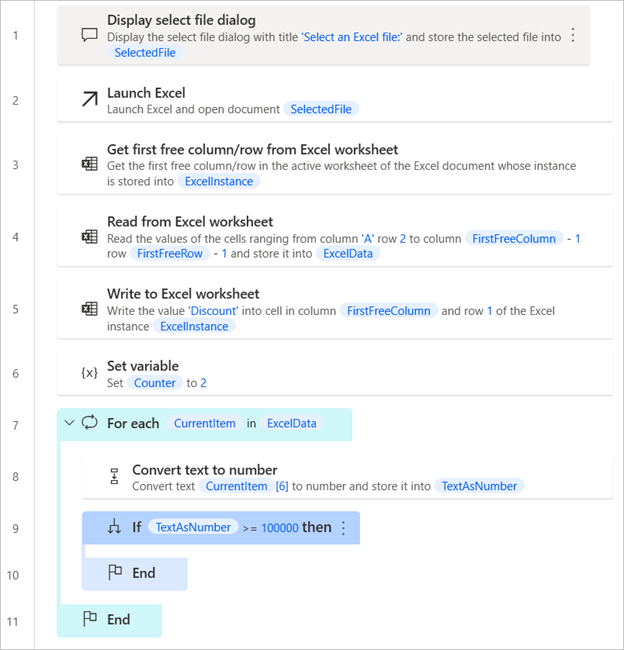
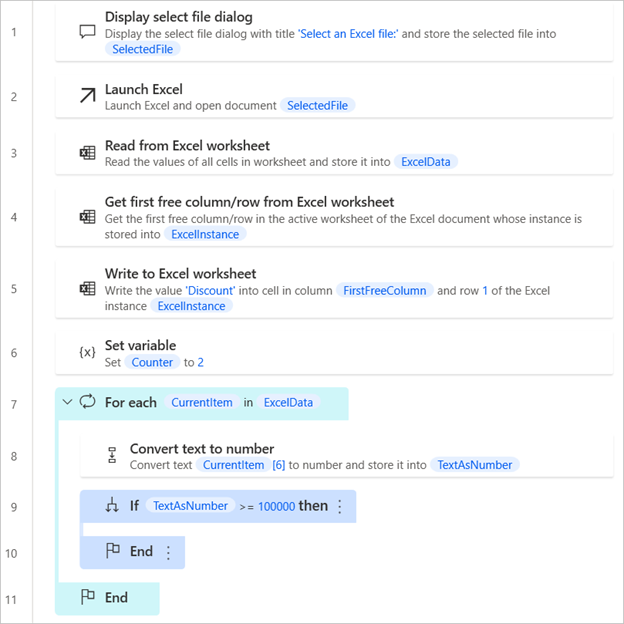
Updates in PAD message boxes

diff --git a/learn-bizapps-pr/flow/pad-message-boxes/includes/3-exercise-message-boxes.md b/learn-bizapps-pr/flow/pad-message-boxes/includes/3-exercise-message-boxes.md
@@ -12,11 +12,11 @@ To begin, download [**Orders.zip**](https://github.com/MicrosoftDocs/mslearn-dev
 
    ![Screenshot of the Launch Excel action.](..\media\launch-excel-action-exercise.png)
 
-1. To read the data of the Excel file, deploy the **Get first free column/row from Excel worksheet** action and then use the **Read from Excel worksheet** action to read the data in the designated range.
+1. To read the data from the Excel file, deploy the **Read from Excel worksheet** action and select **All available values from worksheet** in the **Retrieve** field.
 
    ![Screenshot of the Read from Excel worksheet action.](..\media\read-from-excel-worksheet-properties-exercise.png)
 
-1. Use the **Write to Excel worksheet** action to add a **Discount** header in the first free column of the Excel file.
+1. Deploy the **Get first free column/row from Excel worksheet** action, and then use the **Write to Excel worksheet** action to add a **Discount** header in the first free column of the Excel file.
 
    ![Screenshot of the Write to Excel worksheet action that writes the Discount header.](..\media\write-excel-worksheet-exercise.png)
 
